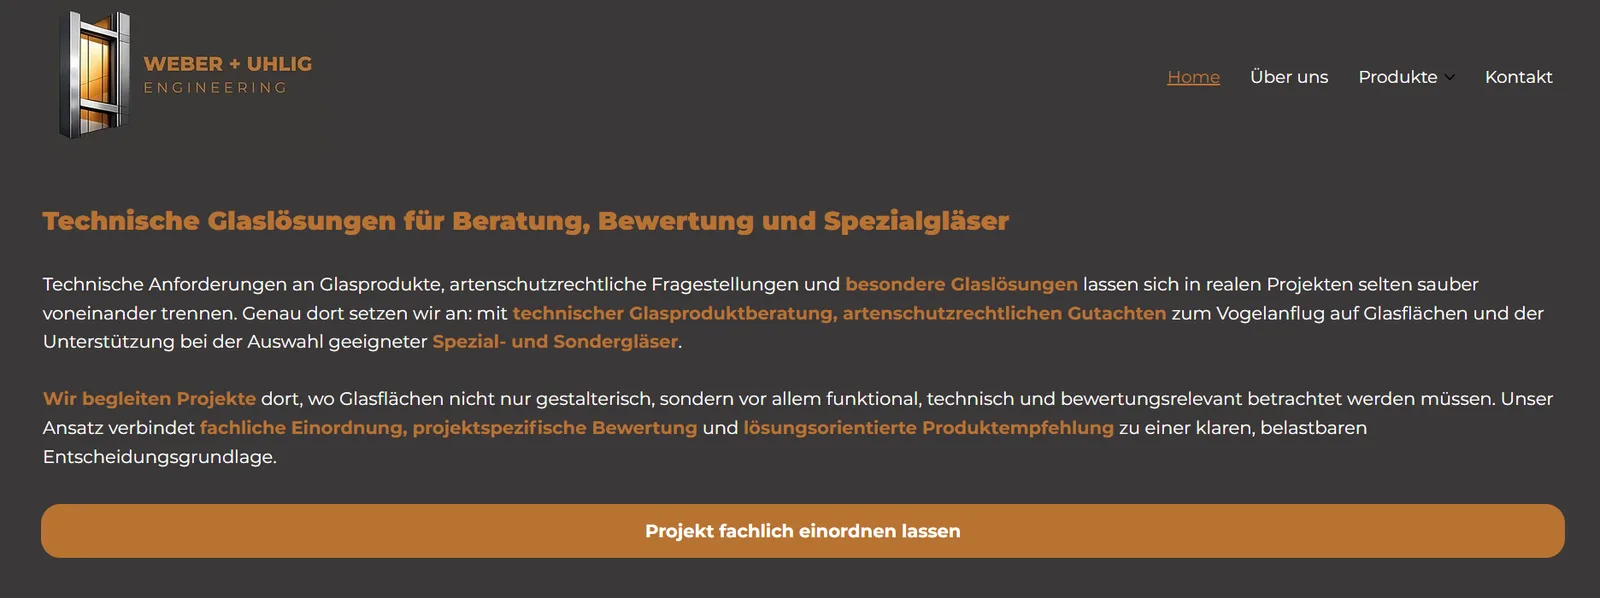
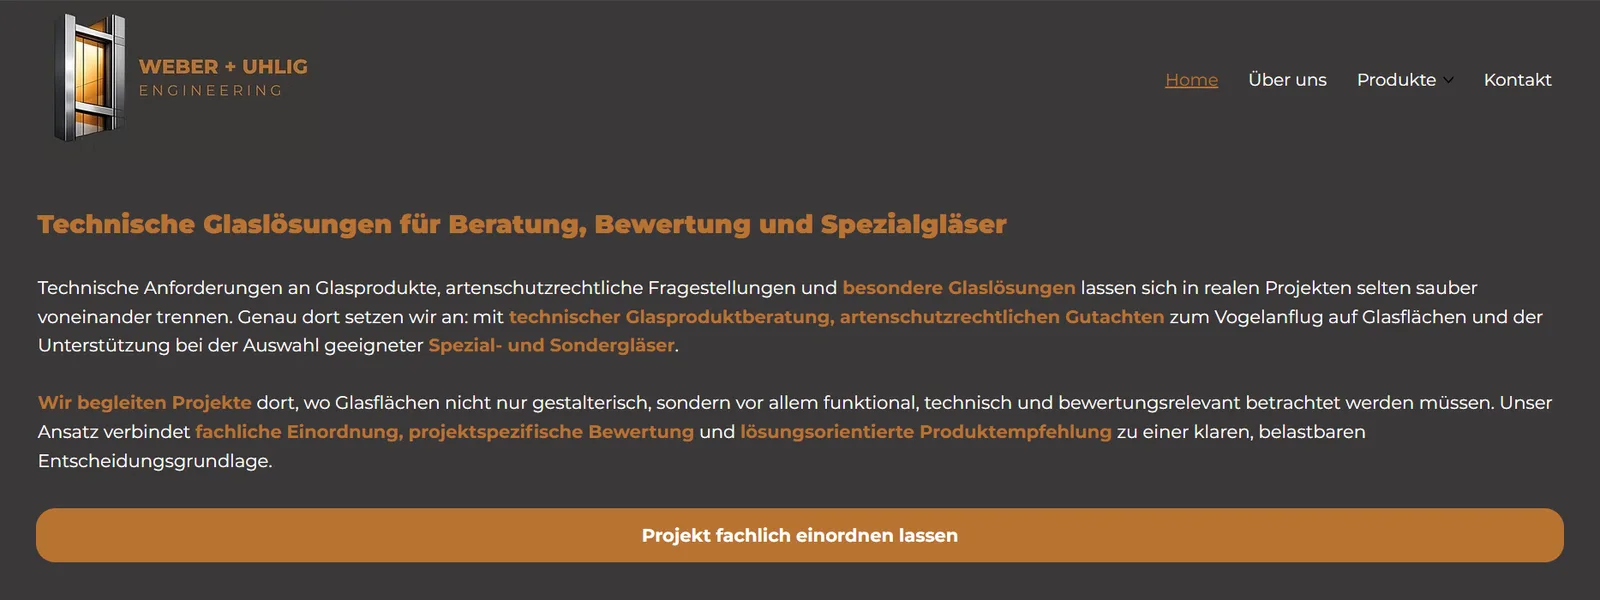
Portfolio-Screenshot durch exakt das vom Nutzer gesendete Bild ersetzen
Claude-Session: https://claude.ai/code/session_01AKQz4CJCiHcPh6YYHzQpya

diff --git a/website/src/components/Portfolio.jsx b/website/src/components/Portfolio.jsx
@@ -15,7 +15,7 @@ export default function Portfolio() {
               alt="Startseite der Website von Weber + Uhlig Engineering"
               loading="lazy"
               width="1600"
-              height="598"
+              height="600"
             />
           </picture>
         </div>
